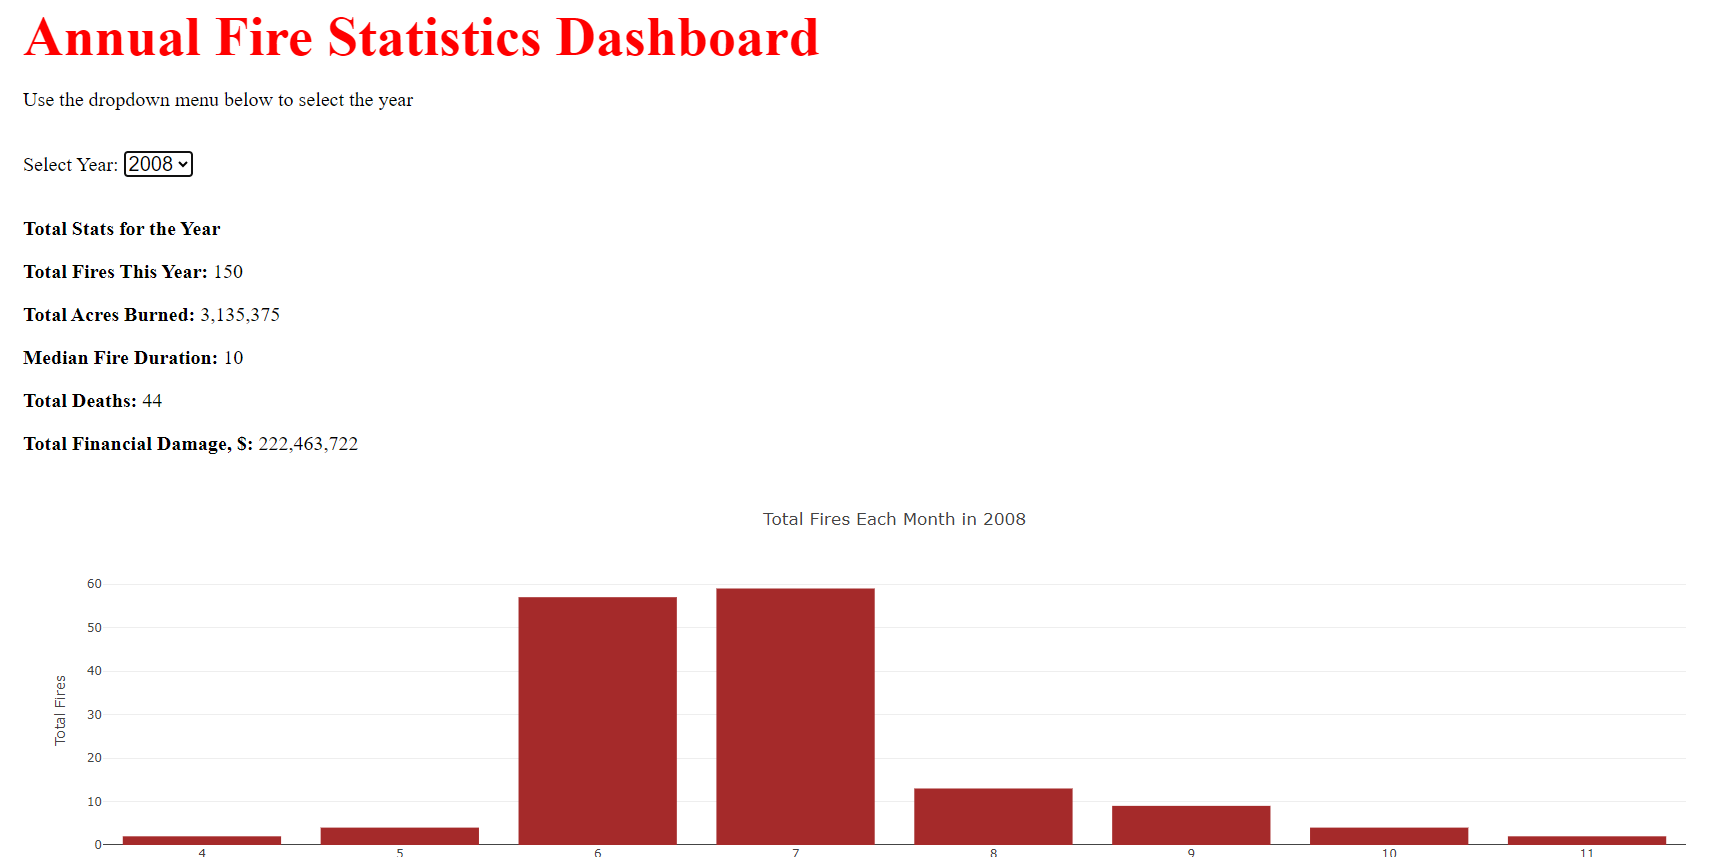
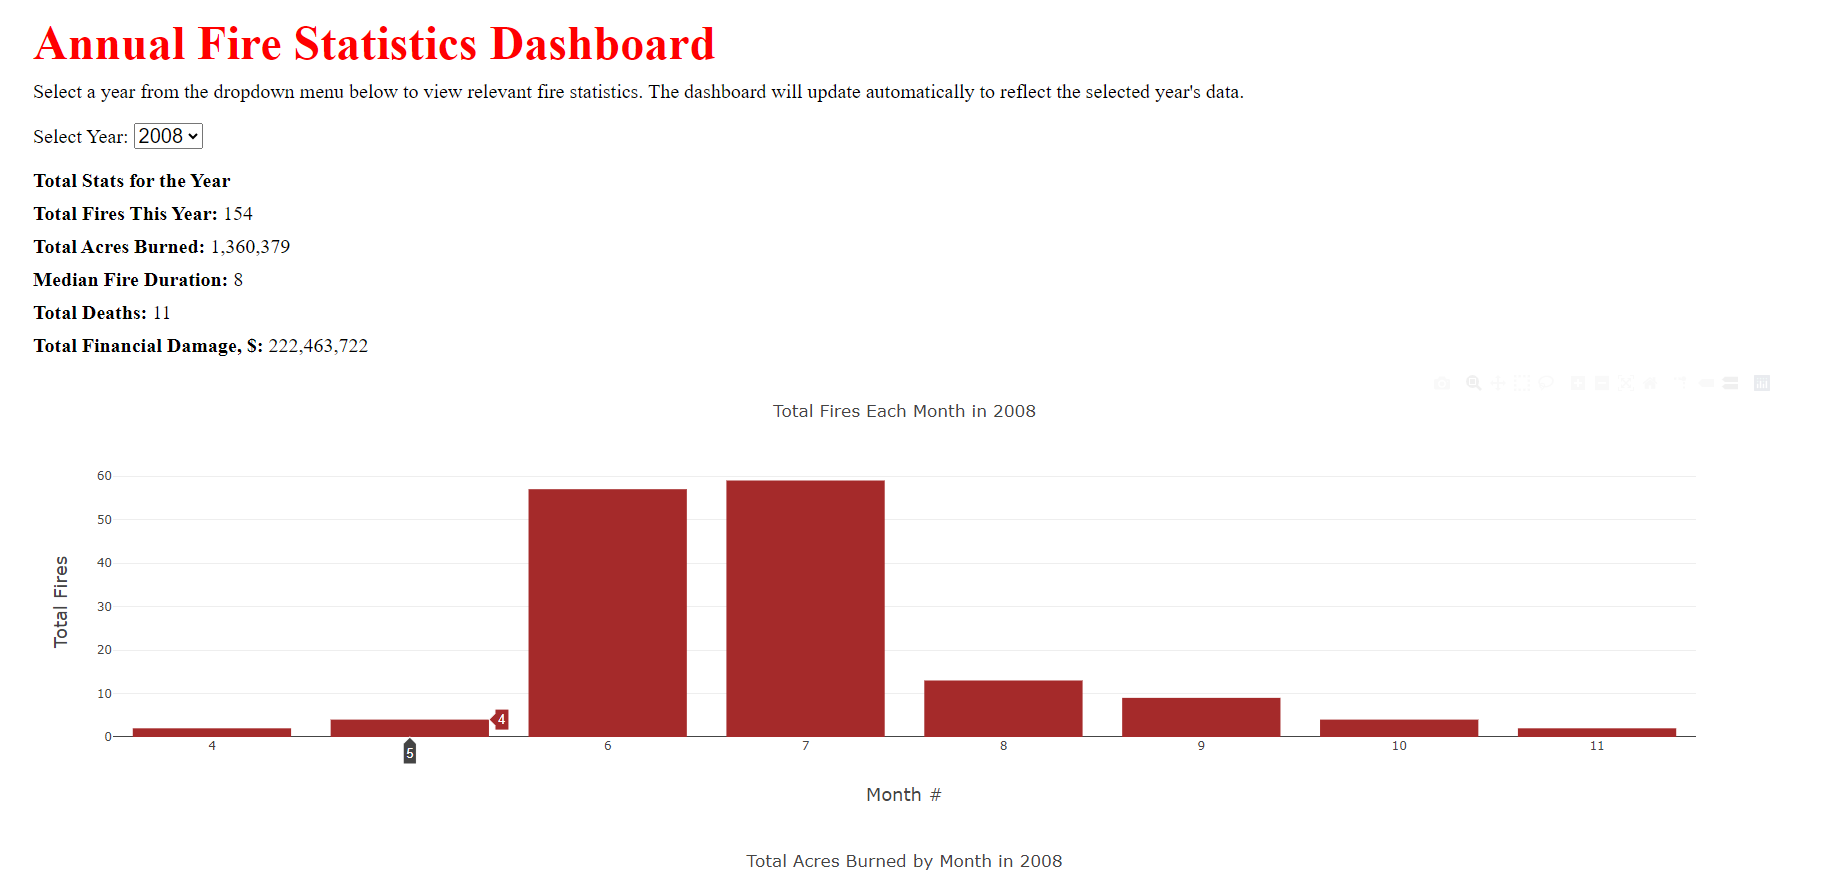
updated yearly and monthly stats, app_java, and readme files

diff --git a/index.html b/index.html
@@ -1,140 +1,42 @@
 <!DOCTYPE html>
 <html lang="en">
-    <!--Set header details with references-->
 <head>
     <meta charset="UTF-8">
     <meta name="viewport" content="width=device-width, initial-scale=1.0">
-    <title>Fire Statistics Dashboard</title>
+    <title>Annual Fire Statistics Dashboard</title>
+    <!-- Link to external stylesheet for styling -->
     <link rel="stylesheet" href="style_yearly.css">
+    <!-- Load Plotly.js library for charts -->
     <script src="https://cdn.plot.ly/plotly-latest.min.js"></script>
-</head> <!--Close header details-->
+</head>
 
-<!--Set body details with references-->
 <body>
-    <h1>Annual Fire Statistics Dashboard</h1> <!--Close header on the body details-->
-    <!--Display the text in the line below-->
-    <p>Use the dropdown menu below to select the year</p>
+    <!-- Main header of the dashboard -->
+    <h1>Annual Fire Statistics Dashboard</h1>
 
+    <!-- Instructional text for using the dropdown menu -->
+    <p>Select a year from the dropdown menu below to view relevant fire statistics. The dashboard will update automatically to reflect the selected year's data.</p>
+
+    <!-- Dropdown menu for selecting the year -->
     <label for="year-select">Select Year:</label>
     <select id="year-select"></select>
 
+    <!-- Section to display total statistics for the selected year -->
     <div id="yearly-stats">
         <h2>Total Stats for the Year</h2>
         <div id="total-stats"></div>
     </div>
 
+    <!-- Divs for displaying different charts -->
     <div id="chart-fires"></div>
     <div id="chart-acres"></div>
     <div id="chart-duration"></div>
     <div id="chart-deaths"></div>
     <div id="chart-findamage"></div>
 
+    <!-- Load D3.js library for data manipulation -->
     <script src="https://d3js.org/d3.v7.min.js"></script>
-    <script>
-        // Load the CSV file with D3.js for yearly statistics from Output folder
-        d3.csv('Outputs/yearly_stats.csv').then(function(data) {
-            // Populate dropdown with unique years
-            const yearSelect = d3.select("#year-select");
-            const uniqueYears = [...new Set(data.map(d => d.Year))];
-            uniqueYears.forEach(year => {
-                yearSelect.append("option").text(year).attr("value", year);
-            });
-
-            // Initial display
-            updateCharts(data, uniqueYears[0]);
-
-            // Update charts when the year is selected
-            yearSelect.on("change", function() {
-                const selectedYear = this.value;
-                updateCharts(data, selectedYear);
-            });
-
-            function updateCharts(data, selectedYear) {
-                // Filter data by the selected year
-                const filteredData = data.filter(d => d.Year == selectedYear)[0];
-
-                // Console log the filtered data to verify results
-                console.log("Filtered Data:", filteredData);
-
-                // Update key stats for the selected year
-                const totalStatsDiv = d3.select("#total-stats");
-                totalStatsDiv.html(`
-                <p><strong>Total Acres:</strong> ${parseFloat(filteredData.total_acres).toLocaleString('en-US', { minimumFractionDigits: 0, maximumFractionDigits: 0 })}</p>
-                <p><strong>Average Duration:</strong> ${filteredData.average_yearly_duration}</p>
-                <p><strong>Total Deaths:</strong> ${filteredData.total_deaths}</p>
-                <p><strong>Total Financial Damage, $:</strong> ${parseFloat(filteredData.Tot_Damage).toLocaleString('en-US', { minimumFractionDigits: 0, maximumFractionDigits: 0 })}</p>
-                `);
-
-                // Load the CSV file for monthly statistics from Outputs folder
-                d3.csv('Outputs/monthly_stats.csv').then(function(monthlyData) {
-                    const monthlyFilteredData = monthlyData.filter(d => d.Year == selectedYear);
-
-                    // Update Total Fires chart by Month
-                    const traceFires = {
-                        x: monthlyFilteredData.map(d => d.Month),
-                        y: monthlyFilteredData.map(d => d.total_fires),
-                        type: 'bar',
-                        name: 'Total Fires By Month',
-                        marker: { color: 'brown' }  // Set bar color 
-                    };
-                    const layoutFires = {
-                        title: `Total Fires Each Month in ${selectedYear}`,
-                        xaxis: { title: 'Month' },
-                        yaxis: { title: 'Total Fires' }
-                    };
-                    Plotly.newPlot('chart-fires', [traceFires], layoutFires);
-
-                    // Update Total Acres chart by Month
-                    const traceAcres = {
-                        x: monthlyFilteredData.map(d => d.Month),
-                        y: monthlyFilteredData.map(d => d.total_acres),
-                        type: 'bar',
-                        name: 'Total Acres Burned By Month',
-                        marker: { color: 'black' }  // Set bar color 
-                    };
-                    const layoutAcres = {
-                        title: `Total Acres Burned by Month in ${selectedYear}`,
-                        xaxis: { title: 'Month' },
-                        yaxis: { title: 'Total Acres' }
-                    };
-                    Plotly.newPlot('chart-acres', [traceAcres], layoutAcres);
-
-                    // Update Average Fire Duration chart by Month
-                    const traceDuration = {
-                        x: monthlyFilteredData.map(d => d.Month),
-                        y: monthlyFilteredData.map(d => d.avg_monthly_duration),
-                        type: 'bar',
-                        name: 'Average Fire Duration By Month',
-                        marker: { color: 'orange' }  // Set bar color 
-                    };
-                    const layoutDuration = {
-                        title: `Average Fire Duration in ${selectedYear}`,
-                        xaxis: { title: 'Month' },
-                        yaxis: { title: 'Average Fire Duration' }
-                    };
-                    Plotly.newPlot('chart-duration', [traceDuration], layoutDuration);
-
-                    // Update Total Deaths chart by Month
-                    const traceDeaths = {
-                        x: monthlyFilteredData.map(d => d.Month),
-                        y: monthlyFilteredData.map(d => d.total_deaths),
-                        type: 'bar',
-                        name: 'Total Deaths by Month',
-                        marker: { color: 'red' }  // Set bar color 
-                    };
-                    const layoutDeaths = {
-                        title: `Total Deaths by Month in ${selectedYear}`,
-                        xaxis: { title: 'Month' },
-                        yaxis: { title: 'Total Deaths' }
-                    };
-                    Plotly.newPlot('chart-deaths', [traceDeaths], layoutDeaths);
-                }).catch(function(error) {
-                    console.error("Error loading monthly data:", error);
-                });
-            }
-        }).catch(function(error) {
-            console.error("Error loading yearly data:", error);  // Set parameters how to handle errors
-        });
-    </script>
+    <!-- Link to external JavaScript file for data visualization logic -->
+    <script src="app_java_visualization.js"></script>
 </body>
 </html>

diff --git a/app_java_visualization.js b/app_java_visualization.js
@@ -48,8 +48,14 @@ d3.csv('Outputs/yearly_stats.csv').then(function(data) {
             };
             const layoutFires = {
                 title: `Total Fires Each Month in ${selectedYear}`,
-                xaxis: { title: 'Month' },
-                yaxis: { title: 'Total Fires' }
+                xaxis: { 
+                    title: 'Month #',
+                    titlefont: { size: 18 }  // Adjust this size as needed
+                },
+                yaxis: { 
+                    title: 'Total Fires',
+                    titlefont: { size: 18 }  // Adjust this size as needed
+                }
             };
             Plotly.newPlot('chart-fires', [traceFires], layoutFires);
 
@@ -63,8 +69,14 @@ d3.csv('Outputs/yearly_stats.csv').then(function(data) {
             };
             const layoutAcres = {
                 title: `Total Acres Burned by Month in ${selectedYear}`,
-                xaxis: { title: 'Month' },
-                yaxis: { title: 'Total Acres' }
+                xaxis: { 
+                    title: 'Month #',
+                    titlefont: { size: 18 }  // Adjust this size as needed
+                },
+                yaxis: { 
+                    title: 'Total Acres',
+                    titlefont: { size: 18 }  // Adjust this size as needed 
+                }
             };
             Plotly.newPlot('chart-acres', [traceAcres], layoutAcres);
 
@@ -78,8 +90,14 @@ d3.csv('Outputs/yearly_stats.csv').then(function(data) {
             };
             const layoutDuration = {
                 title: `Median Fire Duration in ${selectedYear}`,
-                xaxis: { title: 'Month' },
-                yaxis: { title: 'Median Fire Duration' }
+                xaxis: { 
+                    title: 'Month #',
+                    titlefont: { size: 18 }  // Adjust this size as needed
+                 },
+                yaxis: { 
+                    title: 'Median Fire Duration',
+                    titlefont: { size: 18 }  // Adjust this size as needed
+                 }
             };
             Plotly.newPlot('chart-duration', [traceDuration], layoutDuration);
 
@@ -93,8 +111,14 @@ d3.csv('Outputs/yearly_stats.csv').then(function(data) {
             };
             const layoutDeaths = {
                 title: `Total Deaths by Month in ${selectedYear}`,
-                xaxis: { title: 'Month' },
-                yaxis: { title: 'Total Deaths' }
+                xaxis: { 
+                    title: 'Month #',
+                    titlefont: { size: 18 }  // Adjust this size as needed
+                 },
+                yaxis: { 
+                    title: 'Total Deaths',
+                    titlefont: { size: 18 }  // Adjust this size as needed
+                 }
             };
             Plotly.newPlot('chart-deaths', [traceDeaths], layoutDeaths);
         }).catch(function(error) {

diff --git a/style_yearly.css b/style_yearly.css
@@ -1,7 +1,7 @@
 /* Ensure full width and height for map and body */
 html, body, #map {
   padding: 0;
-  margin: 50px 50px; /* Increase left and right margins to 30px, top and bottom remain 10px */
+  margin: 48px 48px; /* Increase left and right margins, top and bottom remain 10px */
   width: calc(100% - 80px); /* Adjust the width to account for increased left and right margins */
   height: calc(100% - 40px); /* Adjust the height to account for top and bottom margins */
 }
@@ -9,18 +9,18 @@ html, body, #map {
 /* Set Fire Statistics Dashboard title to bright red and enlarge it */
 h1 {
   color: #FF0000; /* Bright red */
-  font-size: 56px;
-  margin: 20px 0; /* Add top and bottom margins */
+  font-size: 48px;
+  margin: 10px 0; /* Add top and bottom margins */
 }
 
 /* Enlarge the font size for all text on the page */
 body, p, label, select, h2 {
   font-size: 20px;
-  margin: 20px 0; /* Add top and bottom margins */
+  margin: 10px 0; /* Add top and bottom margins */
 }
 
 /* Make the bar charts bright orange */
 .bar-chart {
   background-color: #FFA500; /* Bright orange */
-  margin: 20px 0; /* Add margin around the bar charts */
+  margin: 10px 0; /* Add margin around the bar charts */
 }

diff --git a/README.md b/README.md
@@ -40,12 +40,12 @@ The number of fires fluctuate year by year and there is no consistent growth.
 However, on average fire burn during 13 days a month with astronomical financial losses.
 
 ### Key Takeaway for Viewers
-* This project, while independent and exploratory, offers valuable insights:
-    I.  **County-Level Risk Assessment:** Access localized fire statistics and risk assessments here. You can check information about your county [HERE](LINK TO BE ADDED).
-    II.  **Economic Impact:** In **2017**, California's fires cost over **$12 billion**. From **2008-2022, total damages exceeded $24 billion**, excluding human and environmental costs, and costs of containing fires.
-    *Yearly Statistics can be found [HERE](https://example.com/yearly-statistics).*
-    III.  **Policy Implications:** Preventative measures, though costly, could be more cost-effective than the devastating damages from wildfires.
-    IV.  **Real Estate Considerations:** When buying property in California, consider fire risks alongside other factors like earthquakes, as they significantly impact insurance costs.
+This project, while independent and exploratory, offers valuable insights:
+    * **County-Level Risk Assessment:** Access localized fire statistics and risk assessments here. You can check information about your county [HERE](LINK TO BE ADDED).
+    * **Economic Impact:** In **2017**, California's fires cost over **$12 billion**. From **2008-2022, total damages exceeded $24 billion**, excluding human and environmental costs, and costs of containing fires.
+    * Yearly Statistics can be found *[HERE](https://example.com/yearly-statistics).*
+    * **Policy Implications:** Preventative measures, though costly, could be more cost-effective than the devastating damages from wildfires.
+    * **Real Estate Considerations:** When buying property in California, consider fire risks alongside other factors like earthquakes, as they significantly impact insurance costs.
 ___
 
 ### Methodologies and Programming Languages Used
@@ -66,9 +66,16 @@ ___
 
 ___
 
-### Resourses and Data Limitations
+### Resourses 
 * [California State Geoportal](https://gis.data.ca.gov/)
 * [Youtube Link](https://www.youtube.com/watch?v=VEtICDT_ZmI) to display fire siren created by [Kermit the sound](https://www.youtube.com/@kermitthesound389)
 * AdobeStock - Image for the title presentation page
+___
+
+### Data Limitations
+* Our data focuses on fires 300+ acres, as smaller fires were underreported. 
+* Some fires spanned multiple counties; we tracked them by origin for accurate impact assessment. 
+* Financial losses cover basic property and content damage, excluding suppression costs, business interruptions, and insurance hikes.
 
 
+*This project is licensed under the GNU General Public License v3.0. For more details, please refer to the 'LICENSE' file.*
